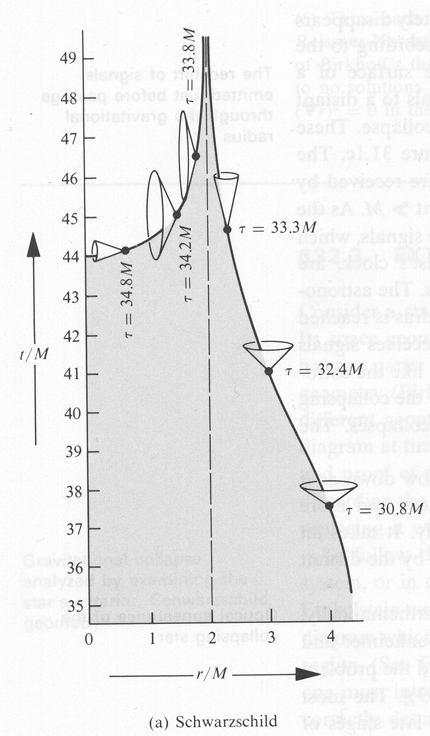
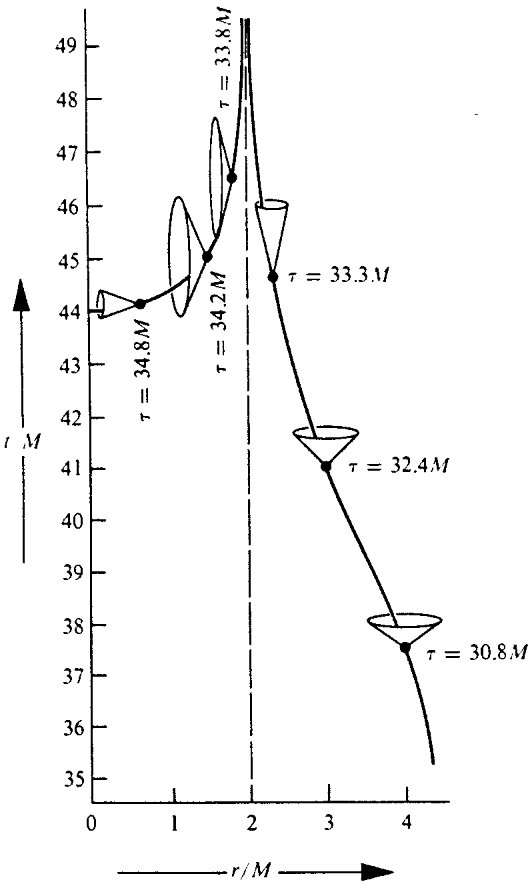
cambio figure buchi neri e risolvo badboxes

diff --git a/capitoli/buchi-neri.tex b/capitoli/buchi-neri.tex
@@ -364,11 +364,11 @@ r_{\textup{S}}\), che per questo motivo è chiamata anche \emph{limite statico}.
 
 \begin{figure}[tb]
   \centering
-  \includegraphics[width=0.6\textwidth]{figure/Schwarzschilddiagram.jpg}
+  \includegraphics[width=0.5\textwidth]{figure/Schwarzschilddiagram.jpg}
   \caption[Coni di luce nello spazio-tempo di Schwarzschild, usando le
   coordinate di Schwarzschild]{Coni di luce nello spazio-tempo di Schwarzschild,
-    usando le coordinate di Schwarzschild.  Immagine presa
-    da~\textcite{misner:gravitation}}
+    usando le coordinate di Schwarzschild.  Immagine tratta
+    da~\textcite[848]{misner:gravitation}}
   \label{fig:coni-schwarzschild}
 \end{figure}
 Supponiamo che il corpo che ha dato origine al buco nero sia collassato
@@ -416,9 +416,11 @@ redshift infinito.
 
 \begin{figure}
   \centering
-  \includegraphics[width=0.7\textwidth]{figure/kruskal}
-  \caption{Coni di luce nella geometria di Schwarzschild, usando le coordinate
-    di Kruskal-Szekeres}
+  \includegraphics[width=0.5\textwidth]{figure/kruskal}
+  \caption[Coni di luce nella geometria di Schwarzschild, usando le coordinate
+  di Kruskal-Szekeres]{Coni di luce nella geometria di Schwarzschild, usando le
+    coordinate di Kruskal-Szekeres.  Immagine tratta
+    da~\textcite[848]{misner:gravitation}}
   \label{fig:coni-kruskal}
 \end{figure}
 Le coordinate di questo tipo più famose sono le \emph{coordinate di
@@ -477,8 +479,10 @@ spazio-tempo di Schwarzschild nelle coordinate di Kruskal-Szekeres.
 \begin{figure}
   \centering
   \includegraphics[width=0.5\textwidth]{figure/eddington}
-  \caption{Coni di luce nella geometria di Schwarzschild, usando le coordinate
-    di Eddington-Finkelstein}
+  \caption[Coni di luce nella geometria di Schwarzschild, usando le coordinate
+  di Eddington-Finkelstein]{Coni di luce nella geometria di Schwarzschild,
+    usando le coordinate di Eddington-Finkelstein.  Immagine tratta
+    da~\textcite[849]{misner:gravitation}}
   \label{fig:coni-eddington}
 \end{figure}
 Le \index{coordinate!di Eddington-Finkelstein}\emph{coordinate di

diff --git a/capitoli/principio_equivalenza.tex b/capitoli/principio_equivalenza.tex
@@ -1221,10 +1221,10 @@ Dunque (ripristiniamo la velocità della luce nel vuoto $c$)
   \frac{\var\tau}{\tau} = \frac{\dd\tau_{2} - \dd\tau_{1}}{\dd\tau_{1}} =
   \frac{\phi_{2} - \phi_{1}}{c^{2}},
 \end{equation}
-e se prendiamo $r_1 \simeq R_\odot$ (emettitore sulla superficie solare, dove
-$\phi_1 = - GM{\odot}/(c^2 R_{\odot}) \simeq -2.12 \cdot 10^{-6}$) ed $r_2$
-sulla superficie terrestre dove $\phi_2 = -GM_{\oplus}/(c^2 R_{\oplus}) \simeq -
-10^{-9}$, avremo
+e se prendiamo $r_1 \simeq R_\odot$ (per esempio un emettitore sulla superficie
+solare, dove $\phi_1 = - GM_{\odot}/(c^2 R_{\odot}) \simeq -2.12 \cdot 10^{-6}$)
+ed $r_2$ sulla superficie terrestre dove $\phi_2 = -GM_{\oplus}/(c^2 R_{\oplus})
+\simeq - 10^{-9}$, avremo
 \begin{equation}
   \frac{\var\tau}{\tau} = \frac{\dd\tau_{2} - \dd\tau_{1}}{\dd\tau_{1}} \simeq 
   - \frac{\phi_{1}}{c^{2}} \simeq 2.12 \cdot 10^{-6} > 0,

diff --git a/capitoli/richiami_relativita_speciale.tex b/capitoli/richiami_relativita_speciale.tex
@@ -2175,6 +2175,7 @@ $T^{\alpha\beta} =
 \tensor{\Lambda}{^{\alpha}_{\mu}}\tensor{\Lambda}{^{\beta}_{\nu}}\tilde
 T^{\mu\nu}$
 \begin{subequations}
+  \allowdisplaybreaks{}
   \begin{align}
     \begin{split}
       T^{00} &= \tensor{\Lambda}{^{0}_{\mu}} \tensor{\Lambda}{^{0}_{\nu}} \tilde

diff --git a/gravitazione.tex b/gravitazione.tex
@@ -258,8 +258,6 @@
 \input{capitoli/buchi-neri}
 \input{capitoli/test_classici}
 \input{capitoli/onde_grav}
-%\input{capitoli/cosmografia}
-%\input{capitoli/cosmologia}
 
 \appendix{}
 \input{appendici/gauss}
